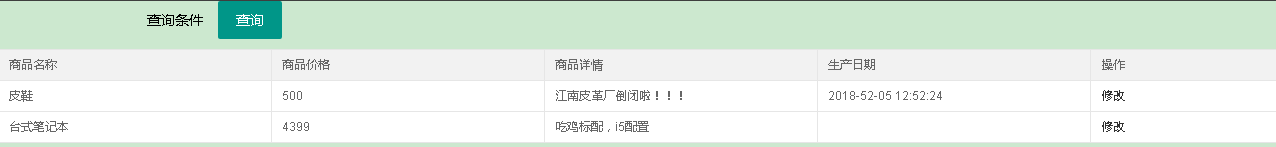
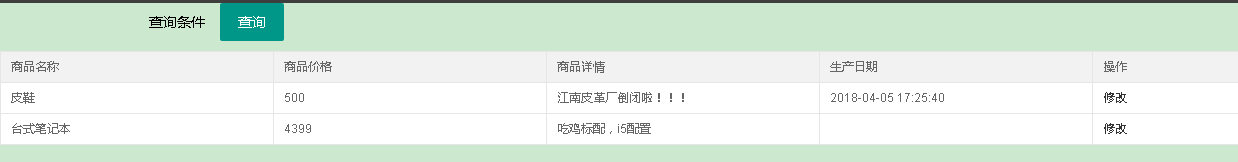
Site updated: 2018-04-05 17:29:56

diff --git a/2018/04/05/SpringMVC配置及使用/index.html b/2018/04/05/SpringMVC配置及使用/index.html
@@ -90,7 +90,7 @@
 <meta property="og:image" content="http://yoursite.com/img/spring%20test/jar包.png">
 <meta property="og:image" content="http://yoursite.com/img/spring%20test/整体结构.png">
 <meta property="og:image" content="http://yoursite.com/img/spring%20test/list.png">
-<meta property="og:updated_time" content="2018-04-05T09:15:07.119Z">
+<meta property="og:updated_time" content="2018-04-05T09:28:58.393Z">
 <meta name="twitter:card" content="summary">
 <meta name="twitter:title" content="SpringMVC配置及使用">
 <meta name="twitter:description" content="前言SpringMVC框架中主要主要有三大组件：处理器映射器，处理器适配器以及视图解析器而映射器和适配器可以由非注解和注解两种方式进行配置因为现在一般提倡注解方式配置，这里主要演示注解方式，非注解方式也会涉及一下">
@@ -331,7 +331,7 @@
 <p>这里使用了po包的Items包装类，可以通过之前所学的mybatis逆向工程生成，这里给出相应代码</p>
 <figure class="highlight plain"><table><tr><td class="gutter"><pre><span class="line">1</span><br><span class="line">2</span><br><span class="line">3</span><br><span class="line">4</span><br><span class="line">5</span><br><span class="line">6</span><br><span class="line">7</span><br><span class="line">8</span><br><span class="line">9</span><br><span class="line">10</span><br><span class="line">11</span><br><span class="line">12</span><br><span class="line">13</span><br><span class="line">14</span><br><span class="line">15</span><br><span class="line">16</span><br><span class="line">17</span><br><span class="line">18</span><br><span class="line">19</span><br><span class="line">20</span><br><span class="line">21</span><br><span class="line">22</span><br><span class="line">23</span><br><span class="line">24</span><br><span class="line">25</span><br><span class="line">26</span><br><span class="line">27</span><br><span class="line">28</span><br><span class="line">29</span><br><span class="line">30</span><br><span class="line">31</span><br><span class="line">32</span><br><span class="line">33</span><br><span class="line">34</span><br><span class="line">35</span><br><span class="line">36</span><br><span class="line">37</span><br><span class="line">38</span><br><span class="line">39</span><br><span class="line">40</span><br><span class="line">41</span><br><span class="line">42</span><br><span class="line">43</span><br><span class="line">44</span><br><span class="line">45</span><br><span class="line">46</span><br><span class="line">47</span><br><span class="line">48</span><br><span class="line">49</span><br><span class="line">50</span><br><span class="line">51</span><br><span class="line">52</span><br><span class="line">53</span><br><span class="line">54</span><br><span class="line">55</span><br><span class="line">56</span><br><span class="line">57</span><br><span class="line">58</span><br><span class="line">59</span><br><span class="line">60</span><br><span class="line">61</span><br><span class="line">62</span><br><span class="line">63</span><br><span class="line">64</span><br></pre></td><td class="code"><pre><span class="line">package po;</span><br><span class="line"></span><br><span class="line">import java.math.BigDecimal;</span><br><span class="line">import java.util.Date;</span><br><span class="line"></span><br><span class="line">public class Items &#123;</span><br><span class="line">    private Integer id; //商品id</span><br><span class="line"></span><br><span class="line">    private String name;    //商品名称</span><br><span class="line"></span><br><span class="line">    private BigDecimal price;   //商品价格</span><br><span class="line"></span><br><span class="line">    private String detail;  //商品详情</span><br><span class="line"></span><br><span class="line">    private String pic;     //商品图片</span><br><span class="line"></span><br><span class="line">    private Date createtime;    //生产日期</span><br><span class="line"></span><br><span class="line">    public Integer getId() &#123; return id; &#125;</span><br><span class="line"></span><br><span class="line">    public void setId(Integer id) &#123;</span><br><span class="line">        this.id = id;</span><br><span class="line">    &#125;</span><br><span class="line"></span><br><span class="line">    public String getName() &#123;</span><br><span class="line">        return name;</span><br><span class="line">    &#125;</span><br><span class="line"></span><br><span class="line">    public void setName(String name) &#123;</span><br><span class="line">        this.name = name == null ? null : name.trim();</span><br><span class="line">    &#125;</span><br><span class="line"></span><br><span class="line">    public BigDecimal getPrice() &#123;</span><br><span class="line">        return price;</span><br><span class="line">    &#125;</span><br><span class="line"></span><br><span class="line">    public void setPrice(BigDecimal price) &#123;</span><br><span class="line">        this.price = price;</span><br><span class="line">    &#125;</span><br><span class="line"></span><br><span class="line">    public String getDetail() &#123;</span><br><span class="line">        return detail;</span><br><span class="line">    &#125;</span><br><span class="line"></span><br><span class="line">    public void setDetail(String detail) &#123;</span><br><span class="line">        this.detail = detail == null ? null : detail.trim();</span><br><span class="line">    &#125;</span><br><span class="line"></span><br><span class="line">    public String getPic() &#123;</span><br><span class="line">        return pic;</span><br><span class="line">    &#125;</span><br><span class="line"></span><br><span class="line">    public void setPic(String pic) &#123;</span><br><span class="line">        this.pic = pic == null ? null : pic.trim();</span><br><span class="line">    &#125;</span><br><span class="line"></span><br><span class="line">    public Date getCreatetime() &#123;</span><br><span class="line">        return createtime;</span><br><span class="line">    &#125;</span><br><span class="line"></span><br><span class="line">    public void setCreatetime(Date createtime) &#123;</span><br><span class="line">        this.createtime = createtime;</span><br><span class="line">    &#125;</span><br><span class="line">&#125;</span><br></pre></td></tr></table></figure>
 <p>itemController1控制器还指定“/WEB-INF/jsp/itemList.jsp”，这里给出itemList.jsp的相关代码</p>
-<figure class="highlight plain"><table><tr><td class="gutter"><pre><span class="line">1</span><br><span class="line">2</span><br><span class="line">3</span><br><span class="line">4</span><br><span class="line">5</span><br><span class="line">6</span><br><span class="line">7</span><br><span class="line">8</span><br><span class="line">9</span><br><span class="line">10</span><br><span class="line">11</span><br><span class="line">12</span><br><span class="line">13</span><br><span class="line">14</span><br><span class="line">15</span><br><span class="line">16</span><br><span class="line">17</span><br><span class="line">18</span><br><span class="line">19</span><br><span class="line">20</span><br><span class="line">21</span><br><span class="line">22</span><br><span class="line">23</span><br><span class="line">24</span><br><span class="line">25</span><br><span class="line">26</span><br><span class="line">27</span><br><span class="line">28</span><br><span class="line">29</span><br><span class="line">30</span><br><span class="line">31</span><br><span class="line">32</span><br><span class="line">33</span><br><span class="line">34</span><br><span class="line">35</span><br><span class="line">36</span><br><span class="line">37</span><br><span class="line">38</span><br><span class="line">39</span><br><span class="line">40</span><br><span class="line">41</span><br><span class="line">42</span><br><span class="line">43</span><br><span class="line">44</span><br><span class="line">45</span><br><span class="line">46</span><br><span class="line">47</span><br><span class="line">48</span><br><span class="line">49</span><br><span class="line">50</span><br><span class="line">51</span><br><span class="line">52</span><br><span class="line">53</span><br><span class="line">54</span><br><span class="line">55</span><br><span class="line">56</span><br><span class="line">57</span><br><span class="line">58</span><br><span class="line">59</span><br><span class="line">60</span><br><span class="line">61</span><br><span class="line">62</span><br><span class="line">63</span><br><span class="line">64</span><br><span class="line">65</span><br></pre></td><td class="code"><pre><span class="line"></span><br><span class="line">&lt;%--</span><br><span class="line">  Created by IntelliJ IDEA.</span><br><span class="line">  User: 光玉</span><br><span class="line">  Date: 2018/4/3</span><br><span class="line">  Time: 18:35</span><br><span class="line">  To change this template use File | Settings | File Templates.</span><br><span class="line">--%&gt;</span><br><span class="line">&lt;%@ page contentType=&quot;text/html;charset=UTF-8&quot; language=&quot;java&quot; pageEncoding=&quot;UTF-8&quot; %&gt;</span><br><span class="line">&lt;%@ taglib prefix=&quot;c&quot; uri=&quot;http://java.sun.com/jsp/jstl/core&quot; %&gt;</span><br><span class="line">&lt;%@ taglib prefix=&quot;fmt&quot; uri=&quot;http://java.sun.com/jsp/jstl/fmt&quot; %&gt;</span><br><span class="line"></span><br><span class="line">&lt;!DOCTYPE html&gt;</span><br><span class="line">&lt;head&gt;</span><br><span class="line">    &lt;title&gt;查询商品列表&lt;/title&gt;</span><br><span class="line">    &lt;meta http-equiv=&quot;Content-Type&quot; content=&quot;text/html; charset=UTF-8&quot;&gt;</span><br><span class="line">    &lt;script type=&quot;text/javascript&quot; src=&quot;&lt;%= request.getContextPath()%&gt;/plugin/layui/layui.all.js&quot;&gt;&lt;/script&gt;</span><br><span class="line">    &lt;link rel=&quot;stylesheet&quot; href=&quot;&lt;%= request.getContextPath()%&gt;/plugin/layui/css/layui.css&quot;&gt;</span><br><span class="line">&lt;/head&gt;</span><br><span class="line">&lt;body&gt;</span><br><span class="line">    &lt;form class=&quot;layui-form&quot; action=&quot;$&#123;pageContext.request.contextPath&#125;/queryItems.action&quot; method=&quot;post&quot;&gt;</span><br><span class="line">        &lt;div class=&quot;layui-input-block&quot;&gt;</span><br><span class="line">            &lt;label class=&quot;layui-form-label&quot;&gt;查询条件&lt;/label&gt;</span><br><span class="line">            &lt;button class=&quot;layui-btn&quot; type=&quot;submit&quot; value=&quot;查询&quot;&gt;查询&lt;/button&gt;</span><br><span class="line">        &lt;/div&gt;</span><br><span class="line">        &lt;table class=&quot;layui-table&quot; lay-size=&quot;sm&quot;&gt;</span><br><span class="line">            &lt;colgroup&gt;</span><br><span class="line">                &lt;col width=&quot;150&quot;&gt;</span><br><span class="line">                &lt;col width=&quot;150&quot;&gt;</span><br><span class="line">                &lt;col width=&quot;150&quot;&gt;</span><br><span class="line">                &lt;col width=&quot;150&quot;&gt;</span><br><span class="line">                &lt;col width=&quot;150&quot;&gt;</span><br><span class="line">            &lt;/colgroup&gt;</span><br><span class="line">            &lt;thead&gt;</span><br><span class="line">                &lt;tr&gt;</span><br><span class="line">                    &lt;th&gt;商品名称&lt;/th&gt;</span><br><span class="line">                    &lt;th&gt;商品价格&lt;/th&gt;</span><br><span class="line">                    &lt;th&gt;商品详情&lt;/th&gt;</span><br><span class="line">                    &lt;th&gt;生产日期&lt;/th&gt;</span><br><span class="line">                    &lt;th&gt;操作&lt;/th&gt;</span><br><span class="line">                &lt;/tr&gt;</span><br><span class="line">            &lt;/thead&gt;</span><br><span class="line">            &lt;tbody&gt;</span><br><span class="line">                &lt;c:forEach items=&quot;$&#123;itemsList&#125;&quot; var=&quot;item&quot;&gt;</span><br><span class="line">                    &lt;tr&gt;</span><br><span class="line">                        &lt;td&gt;$&#123;item.name&#125;&lt;/td&gt;</span><br><span class="line">                        &lt;td&gt;$&#123;item.price&#125;&lt;/td&gt;</span><br><span class="line">                        &lt;td&gt;$&#123;item.detail&#125;&lt;/td&gt;</span><br><span class="line">                        &lt;td&gt;&lt;fmt:formatDate value=&quot;$&#123;item.createtime&#125;&quot; pattern=&quot;yyyy-mm-dd hh:mm:ss&quot;/&gt; &lt;/td&gt;</span><br><span class="line"></span><br><span class="line">                        &lt;td&gt;&lt;a href=&quot;$&#123;pageContext.request.contextPath&#125;/items/editItems.action?id=$&#123;item.id&#125;&quot;&gt;修改&lt;/a&gt;&lt;/td&gt;</span><br><span class="line">                    &lt;/tr&gt;</span><br><span class="line">                &lt;/c:forEach&gt;</span><br><span class="line">            &lt;/tbody&gt;</span><br><span class="line">        &lt;/table&gt;</span><br><span class="line">    &lt;/form&gt;</span><br><span class="line"></span><br><span class="line">    &lt;script&gt;</span><br><span class="line">        layui.use(&apos;form&apos;, function () &#123;</span><br><span class="line">            var form = layui.form;</span><br><span class="line">            form.render(&apos;radio&apos;);</span><br><span class="line">        &#125;);</span><br><span class="line">    &lt;/script&gt;</span><br><span class="line">&lt;/body&gt;</span><br><span class="line">&lt;/html&gt;</span><br></pre></td></tr></table></figure>
+<figure class="highlight plain"><table><tr><td class="gutter"><pre><span class="line">1</span><br><span class="line">2</span><br><span class="line">3</span><br><span class="line">4</span><br><span class="line">5</span><br><span class="line">6</span><br><span class="line">7</span><br><span class="line">8</span><br><span class="line">9</span><br><span class="line">10</span><br><span class="line">11</span><br><span class="line">12</span><br><span class="line">13</span><br><span class="line">14</span><br><span class="line">15</span><br><span class="line">16</span><br><span class="line">17</span><br><span class="line">18</span><br><span class="line">19</span><br><span class="line">20</span><br><span class="line">21</span><br><span class="line">22</span><br><span class="line">23</span><br><span class="line">24</span><br><span class="line">25</span><br><span class="line">26</span><br><span class="line">27</span><br><span class="line">28</span><br><span class="line">29</span><br><span class="line">30</span><br><span class="line">31</span><br><span class="line">32</span><br><span class="line">33</span><br><span class="line">34</span><br><span class="line">35</span><br><span class="line">36</span><br><span class="line">37</span><br><span class="line">38</span><br><span class="line">39</span><br><span class="line">40</span><br><span class="line">41</span><br><span class="line">42</span><br><span class="line">43</span><br><span class="line">44</span><br><span class="line">45</span><br><span class="line">46</span><br><span class="line">47</span><br><span class="line">48</span><br><span class="line">49</span><br><span class="line">50</span><br><span class="line">51</span><br><span class="line">52</span><br><span class="line">53</span><br><span class="line">54</span><br><span class="line">55</span><br><span class="line">56</span><br><span class="line">57</span><br><span class="line">58</span><br><span class="line">59</span><br><span class="line">60</span><br><span class="line">61</span><br><span class="line">62</span><br><span class="line">63</span><br><span class="line">64</span><br><span class="line">65</span><br><span class="line">66</span><br></pre></td><td class="code"><pre><span class="line"></span><br><span class="line">&lt;%--</span><br><span class="line">  Created by IntelliJ IDEA.</span><br><span class="line">  User: 光玉</span><br><span class="line">  Date: 2018/4/3</span><br><span class="line">  Time: 18:35</span><br><span class="line">  To change this template use File | Settings | File Templates.</span><br><span class="line">--%&gt;</span><br><span class="line">&lt;%@ page contentType=&quot;text/html;charset=UTF-8&quot; language=&quot;java&quot; pageEncoding=&quot;UTF-8&quot; %&gt;</span><br><span class="line">&lt;%@ taglib prefix=&quot;c&quot; uri=&quot;http://java.sun.com/jsp/jstl/core&quot; %&gt;</span><br><span class="line">&lt;%@ taglib prefix=&quot;fmt&quot; uri=&quot;http://java.sun.com/jsp/jstl/fmt&quot; %&gt;</span><br><span class="line"></span><br><span class="line">&lt;!DOCTYPE html&gt;</span><br><span class="line">&lt;head&gt;</span><br><span class="line">    &lt;title&gt;查询商品列表&lt;/title&gt;</span><br><span class="line">    &lt;meta http-equiv=&quot;Content-Type&quot; content=&quot;text/html; charset=UTF-8&quot;&gt;</span><br><span class="line">    &lt;script type=&quot;text/javascript&quot; src=&quot;&lt;%= request.getContextPath()%&gt;/plugin/layui/layui.all.js&quot;&gt;&lt;/script&gt;</span><br><span class="line">    &lt;link rel=&quot;stylesheet&quot; href=&quot;&lt;%= request.getContextPath()%&gt;/plugin/layui/css/layui.css&quot;&gt;</span><br><span class="line">&lt;/head&gt;</span><br><span class="line">&lt;body&gt;</span><br><span class="line">    &lt;form class=&quot;layui-form&quot; action=&quot;$&#123;pageContext.request.contextPath&#125;/queryItems.action&quot; method=&quot;post&quot;&gt;</span><br><span class="line">        &lt;div class=&quot;layui-input-block&quot;&gt;</span><br><span class="line">            &lt;label class=&quot;layui-form-label&quot;&gt;查询条件&lt;/label&gt;</span><br><span class="line">            &lt;button class=&quot;layui-btn&quot; type=&quot;submit&quot; value=&quot;查询&quot;&gt;查询&lt;/button&gt;</span><br><span class="line">        &lt;/div&gt;</span><br><span class="line">        &lt;table class=&quot;layui-table&quot; lay-size=&quot;sm&quot;&gt;</span><br><span class="line">            &lt;colgroup&gt;</span><br><span class="line">                &lt;col width=&quot;150&quot;&gt;</span><br><span class="line">                &lt;col width=&quot;150&quot;&gt;</span><br><span class="line">                &lt;col width=&quot;150&quot;&gt;</span><br><span class="line">                &lt;col width=&quot;150&quot;&gt;</span><br><span class="line">                &lt;col width=&quot;150&quot;&gt;</span><br><span class="line">            &lt;/colgroup&gt;</span><br><span class="line">            &lt;thead&gt;</span><br><span class="line">                &lt;tr&gt;</span><br><span class="line">                    &lt;th&gt;商品名称&lt;/th&gt;</span><br><span class="line">                    &lt;th&gt;商品价格&lt;/th&gt;</span><br><span class="line">                    &lt;th&gt;商品详情&lt;/th&gt;</span><br><span class="line">                    &lt;th&gt;生产日期&lt;/th&gt;</span><br><span class="line">                    &lt;th&gt;操作&lt;/th&gt;</span><br><span class="line">                &lt;/tr&gt;</span><br><span class="line">            &lt;/thead&gt;</span><br><span class="line">            &lt;tbody&gt;</span><br><span class="line">                &lt;c:forEach items=&quot;$&#123;itemsList&#125;&quot; var=&quot;item&quot;&gt;</span><br><span class="line">                    &lt;tr&gt;</span><br><span class="line">                        &lt;td&gt;$&#123;item.name&#125;&lt;/td&gt;</span><br><span class="line">                        &lt;td&gt;$&#123;item.price&#125;&lt;/td&gt;</span><br><span class="line">                        &lt;td&gt;$&#123;item.detail&#125;&lt;/td&gt;</span><br><span class="line">						&lt;%-- 注意：pattern里的日期格式大小写要写正确 --%&gt;</span><br><span class="line">                        &lt;td&gt;&lt;fmt:formatDate value=&quot;$&#123;item.createtime&#125;&quot; pattern=&quot;yyyy-MM-dd HH:mm:ss&quot;/&gt; &lt;/td&gt;</span><br><span class="line"></span><br><span class="line">                        &lt;td&gt;&lt;a href=&quot;$&#123;pageContext.request.contextPath&#125;/items/editItems.action?id=$&#123;item.id&#125;&quot;&gt;修改&lt;/a&gt;&lt;/td&gt;</span><br><span class="line">                    &lt;/tr&gt;</span><br><span class="line">                &lt;/c:forEach&gt;</span><br><span class="line">            &lt;/tbody&gt;</span><br><span class="line">        &lt;/table&gt;</span><br><span class="line">    &lt;/form&gt;</span><br><span class="line"></span><br><span class="line">    &lt;script&gt;</span><br><span class="line">        layui.use(&apos;form&apos;, function () &#123;</span><br><span class="line">            var form = layui.form;</span><br><span class="line">            form.render(&apos;radio&apos;);</span><br><span class="line">        &#125;);</span><br><span class="line">    &lt;/script&gt;</span><br><span class="line">&lt;/body&gt;</span><br><span class="line">&lt;/html&gt;</span><br></pre></td></tr></table></figure>
 <p>注意，jsp文件中使用了layui前端插件，路径是web/plugin/layui，如有需要请到<a href="http://www.layui.com/" target="_blank" rel="noopener">layui官网</a>下载,<br>否则就不引入插件，使用原来的html标签编写</p>
 <p>然后我们需要在springmvc.xml中对该Handler进行配置<br><figure class="highlight plain"><table><tr><td class="gutter"><pre><span class="line">1</span><br><span class="line">2</span><br><span class="line">3</span><br><span class="line">4</span><br></pre></td><td class="code"><pre><span class="line"></span><br><span class="line">&lt;!-- 配置单个注解的Handler</span><br><span class="line">     不需要声明id和name属性，只需要给出class=&quot;包名.类名&quot;即可  --&gt;</span><br><span class="line">&lt;bean class=&quot;controller.itemController1&quot;/&gt;</span><br></pre></td></tr></table></figure></p>
 <p>上面的配置方式是配置单个Handler，若要对多个Handler进行配置，可以使用以下的方式<br><figure class="highlight plain"><table><tr><td class="gutter"><pre><span class="line">1</span><br><span class="line">2</span><br><span class="line">3</span><br><span class="line">4</span><br></pre></td><td class="code"><pre><span class="line"></span><br><span class="line">&lt;!-- 使用扫描器进行扫描 </span><br><span class="line">     对controller包下的所有处理器进行扫描--&gt;</span><br><span class="line">&lt;context:component-scan base-package=&quot;controller&quot;/&gt;</span><br></pre></td></tr></table></figure></p>

diff --git a/css/main.css b/css/main.css
@@ -1822,7 +1822,7 @@ pre .javascript .function {
   width: 4px;
   height: 4px;
   border-radius: 50%;
-  background: #ff5774;
+  background: #ff3cd2;
 }
 .links-of-blogroll {
   font-size: 13px;
